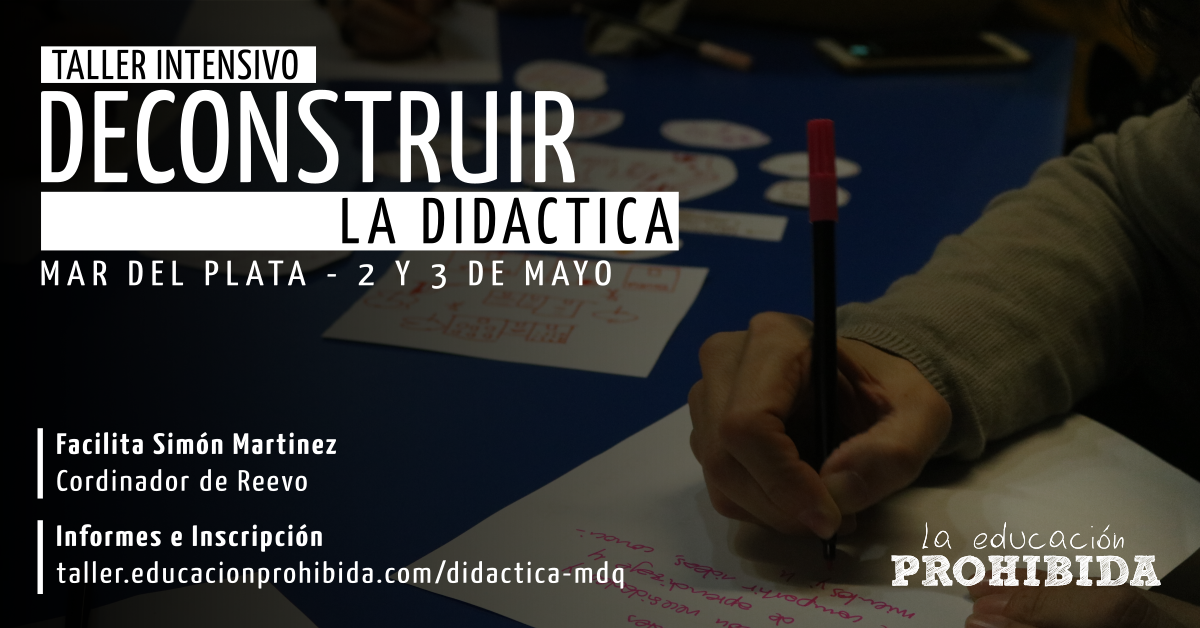
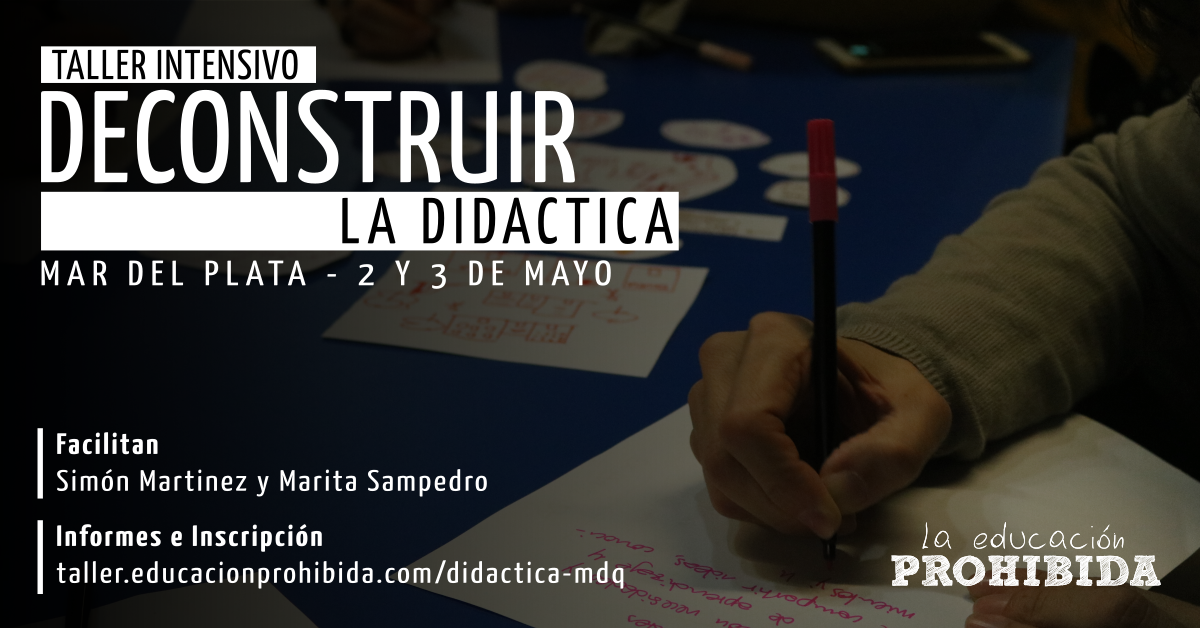
cambio de nombre taller didactica mdq

Changed region(s): [[0.0308, 0.7564, 0.4008, 0.7866], [0.1233, 0.6959, 0.2775, 0.7261]]

diff --git a/index.html b/index.html
@@ -501,7 +501,7 @@
 						<div class="info">
 							<h2 class="title"><a class="boton" href="didactica-mdq/index.html">Deconstruir la Didáctica</a></h2>
 							<p class="desc">Mar del Plata</p>
-							<p class="auth">Taller coordinado por Simón Martinez</p>
+							<p class="auth">Facilitan Simón Martinez y Marita Sampedro</p>
 						</div>
 						
 					</li>
